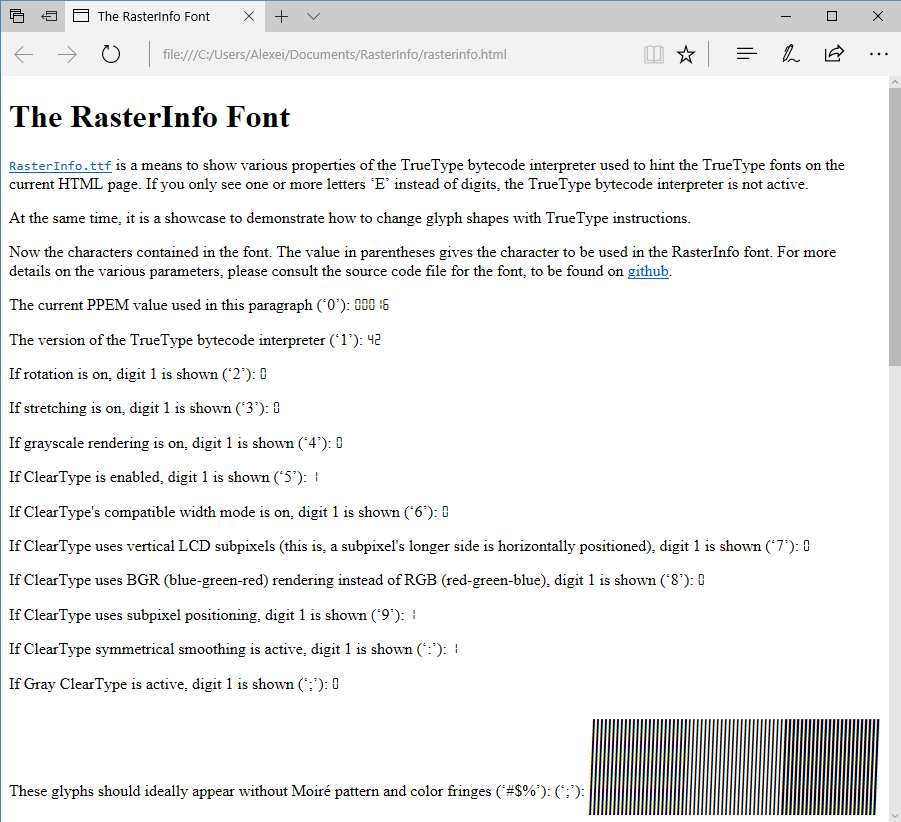
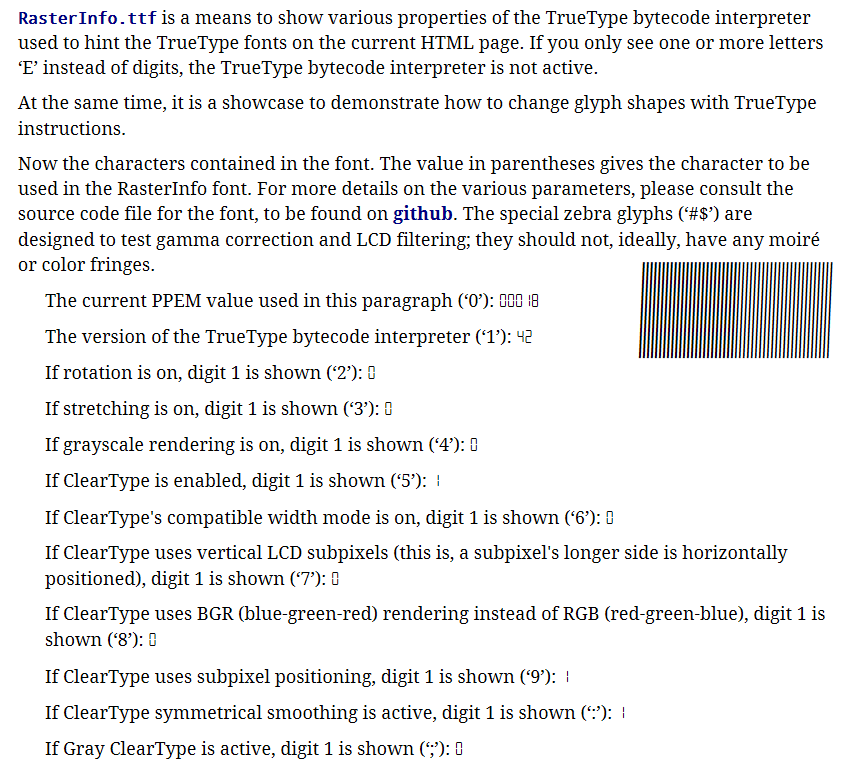
[RasterInfo] Layout and other updates.

Changed region(s): [[0.0, 0.0938, 1.0, 1.0], [0.0, 0.0, 1.0, 0.0938]]

diff --git a/freetype2/docs/rasterinfo/rasterinfo.html b/freetype2/docs/rasterinfo/rasterinfo.html
@@ -42,6 +42,11 @@
       text-rendering: optimizeLegibility; }	
 
     span.RasterInfo { font-family: "RasterInfo"; }
+
+    div.zebra {
+      float: right;
+      font-family: "RasterInfo";
+      font-size: 96px; }
   </style>
 
   <title>The RasterInfo Font</title>
@@ -79,7 +84,12 @@
           parentheses gives the character to be used in the RasterInfo
           font.  For more details on the various parameters, please
           consult the source code file for the font, to be found
-          on <a href="https://github.com/lemzwerg/RasterInfo/blob/master/RasterInfo.m4">github</a>.</p>
+          on <a href="https://github.com/lemzwerg/RasterInfo/blob/master/RasterInfo.m4">github</a>.
+          The special zebra glyphs (&lsquo;#$&rsquo;) are designed
+          to test gamma correction and LCD filtering; they should not,
+          ideally, have any moir&eacute; or color fringes.</p>
+
+        <div class="zebra">#$</div>
 
         <div class="quote">
           <p>The current PPEM value used in this paragraph
@@ -123,11 +133,6 @@
 
           <p>If Gray ClearType is active, digit&nbsp;1 is shown
             (&lsquo;;&rsquo;): <span class="RasterInfo">;</span></p>
-
-          <p style=line-height:96px>These glyphs should ideally appear
-            without Moir&eacute; pattern and color fringes
-            (&lsquo;#$%&rsquo;): <span class="RasterInfo"
-            style=font-size:96px>#$%</span></p>
         </div>
 
         <p>As an example, the image below shows the values as
@@ -136,8 +141,8 @@
 
         <p align="center">
           <img src="RasterInfo Windows 10 Edge 40.png"
-               height="411"
-               width="450"
+               height="384"
+               width="424"
                alt="RasterInfo display on Windows 10 using Edge 40">
         </p>
 
@@ -172,7 +177,7 @@
           License</a>. The current version is 1.02.</p>
 
         <div class="updated">
-          <p>Last update: 13-Sep-2017</p>
+          <p>Last update: 14-Sep-2017</p>
         </div>
       </div>
     </div>
